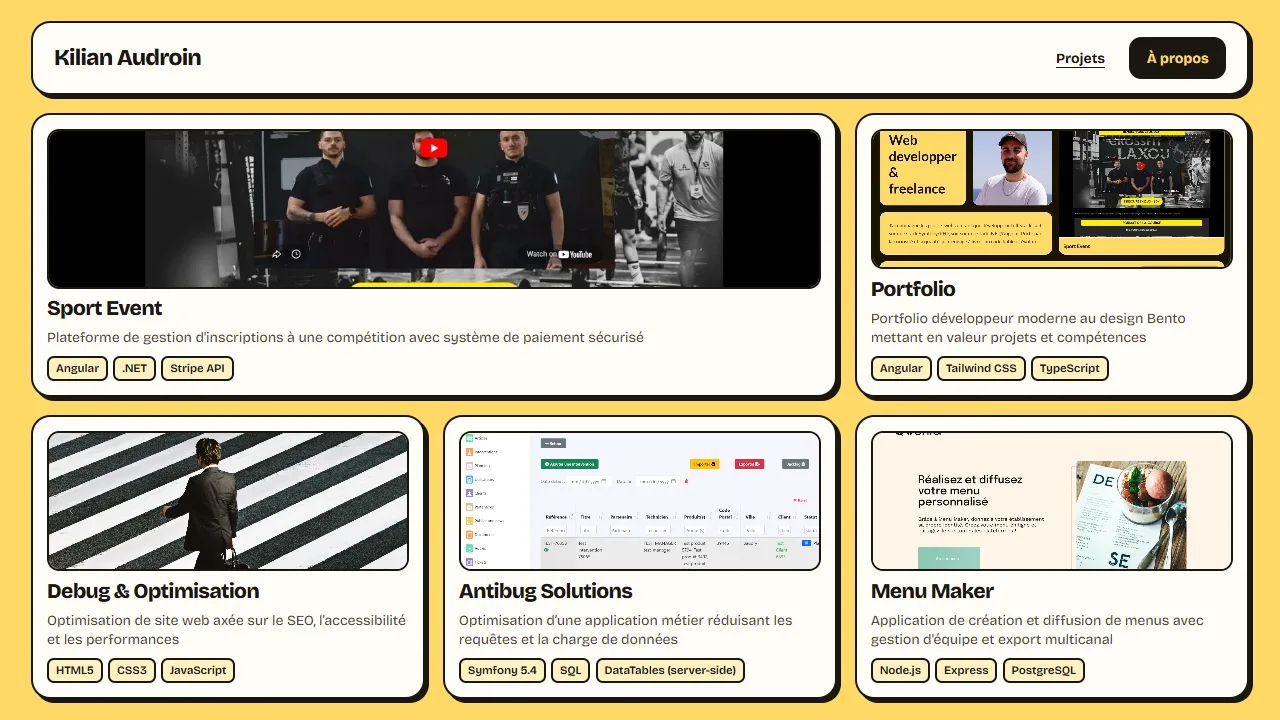
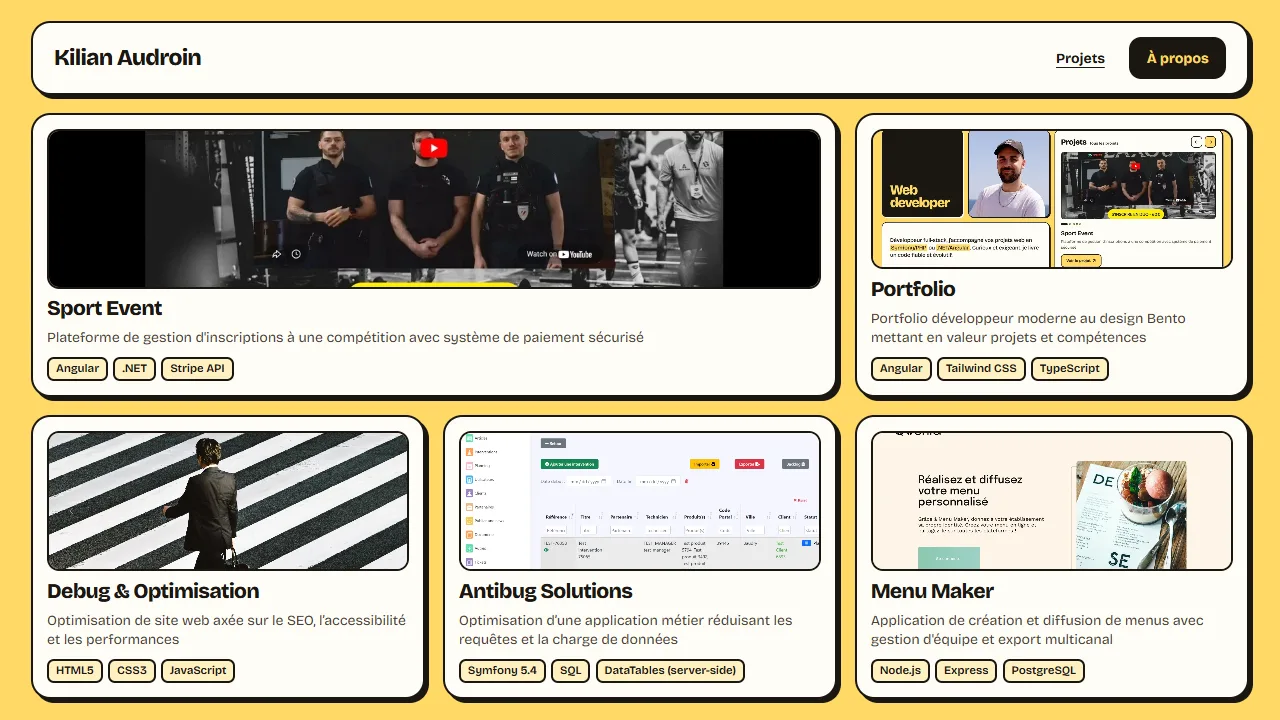
fix: projects grid handles extra cards and short screens; navbar and accessibility polish

diff --git a/portfolio/src/app/pages/projects/project-list/project-list.spec.ts b/portfolio/src/app/pages/projects/project-list/project-list.spec.ts
@@ -74,4 +74,36 @@ describe('ProjectList', () => {
     const fixture = setup(throwError(() => new Error('network')));
     expect(fixture.nativeElement.textContent).toContain('Impossible de charger les projets');
   });
+
+  it('marks only the first card as featured', () => {
+    const fixture = setup();
+    const cards = fixture.nativeElement.querySelectorAll('a.project-card');
+    expect(cards[0].classList).toContain('project-card-featured');
+    expect(cards[1].classList).not.toContain('project-card-featured');
+  });
+
+  it('uses the fit layout only up to five projects', () => {
+    const make = (n: number): Project[] =>
+      Array.from({ length: n }, (_, i) => ({
+        id: `${i}`,
+        slug: `p${i}`,
+        title: `P${i}`,
+        description: 'd',
+        images: ['images/x.webp'],
+      }));
+    const five = setup(of(make(5)));
+    expect(five.nativeElement.querySelector('.project-list-root').classList).toContain(
+      'project-list-fit',
+    );
+    TestBed.resetTestingModule();
+    const six = setup(of(make(6)));
+    expect(six.nativeElement.querySelector('.project-list-root').classList).not.toContain(
+      'project-list-fit',
+    );
+  });
+
+  it('gives card images an empty alt', () => {
+    const fixture = setup();
+    expect(fixture.nativeElement.querySelector('a.project-card img').getAttribute('alt')).toBe('');
+  });
 });

diff --git a/portfolio/src/app/pages/projects/project-list/project-list.scss b/portfolio/src/app/pages/projects/project-list/project-list.scss
@@ -39,6 +39,10 @@
   transition: transform 150ms ease;
 }
 
+.project-card:focus-visible {
+  outline-offset: 6px;
+}
+
 .project-card:hover {
   transform: translate(-2px, -2px);
 }
@@ -101,24 +105,41 @@
   .project-card-featured .project-image {
     aspect-ratio: 16 / 9;
   }
+
+  .project-image {
+    flex: 1 0 auto;
+  }
 }
 
-/* Desktop with enough height: two rows fill the viewport, like the home grid */
+/* Desktop with enough height and at most five cards: two rows fill the viewport, like the home grid */
 @media (min-width: 1024px) and (min-height: 650px) {
-  .project-list-root {
+  .project-list-fit.project-list-root {
     height: 100vh;
   }
 
-  .project-grid {
+  .project-list-fit .project-grid {
     height: 100%;
     grid-template-rows: repeat(2, minmax(0, 1fr));
   }
 
-  .project-image,
-  .project-card-featured .project-image {
+  .project-list-fit .project-image,
+  .project-list-fit .project-card-featured .project-image {
     flex: 1;
     min-height: 0;
     aspect-ratio: auto;
+  }
+
+  .project-list-fit .project-description {
+    display: -webkit-box;
+    -webkit-box-orient: vertical;
+    -webkit-line-clamp: 2;
+    overflow: hidden;
+  }
+
+  /* One pill row: a wrapped pill is hidden whole */
+  .project-list-fit .project-tags {
+    max-height: 1.75rem;
+    overflow: hidden;
   }
 }
 

diff --git a/portfolio/src/app/components/bentos/bento-navbar/bento-navbar.html b/portfolio/src/app/components/bentos/bento-navbar/bento-navbar.html
@@ -1,13 +1,16 @@
 <nav class="bento-card w-full px-5 py-3 md:px-6 md:py-4">
-    <div class="flex flex-wrap items-center justify-between gap-4">
+    <div class="navbar-row flex flex-wrap items-center justify-between gap-4">
         <a routerLink="/" class="navbar-title">{{ title() }}</a>
-        <div class="flex items-center gap-2.5">
+        <div class="navbar-items flex items-center gap-2.5">
             @for (item of navItems(); track item.id) {
+            @if (item.current) {
+            <span class="navbar-button navbar-button-current" aria-current="page">{{ item.label }}</span>
+            } @else {
             <button type="button" (click)="item.action?.()" class="navbar-button"
-                [class.navbar-button-primary]="item.primary" [class.navbar-button-current]="item.current"
-                [attr.aria-current]="item.current ? 'page' : null">
+                [class.navbar-button-primary]="item.primary">
                 {{ item.label }}
             </button>
+            }
             }
         </div>
     </div>

diff --git a/portfolio/src/app/pages/projects/project-list/project-list.html b/portfolio/src/app/pages/projects/project-list/project-list.html
@@ -1,4 +1,4 @@
-<div class="project-list-root bg-page min-h-screen flex flex-col">
+<div class="project-list-root bg-page min-h-screen flex flex-col" [class.project-list-fit]="fitsViewport()">
     <div class="project-list-layout px-4 md:px-6 py-4 md:py-6">
         <app-bento-navbar title="Kilian Audroin" [navItems]="navItems"></app-bento-navbar>
 
@@ -13,7 +13,7 @@
                 <a [routerLink]="['/projects', card.slug]" class="project-card bento-card"
                     [class.project-card-featured]="first">
                     <div class="project-image bento-frame">
-                        <img [ngSrc]="card.image" fill [priority]="first" [alt]="card.title" class="object-cover" />
+                        <img [ngSrc]="card.image" fill [priority]="first" alt="" class="object-cover" />
                     </div>
                     <h2 class="project-title">{{ card.title }}</h2>
                     <p class="project-description">{{ card.description }}</p>

diff --git a/portfolio/src/app/pages/projects/project-list/project-list.ts b/portfolio/src/app/pages/projects/project-list/project-list.ts
@@ -1,4 +1,4 @@
-import { ChangeDetectionStrategy, Component, inject, signal } from '@angular/core';
+import { ChangeDetectionStrategy, Component, computed, inject, signal } from '@angular/core';
 import { NgOptimizedImage } from '@angular/common';
 import { Router, RouterLink } from '@angular/router';
 import { toSignal } from '@angular/core/rxjs-interop';
@@ -7,6 +7,7 @@ import { BentoNavbar, NavItem } from '../../../components/bentos/bento-navbar/be
 import { ProjectService } from '../../../services/projects/project';
 
 const MAX_TAGS = 3;
+const MAX_FIT_CARDS = 5;
 
 interface ProjectCard {
   slug: string;
@@ -64,4 +65,7 @@ export class ProjectList {
         }),
       ),
   );
+
+  /** Five cards fill two rows exactly; more fall back to the scrolling layout. */
+  readonly fitsViewport = computed(() => (this.projects()?.length ?? 0) <= MAX_FIT_CARDS);
 }

diff --git a/portfolio/src/app/components/bentos/bento-navbar/bento-navbar.spec.ts b/portfolio/src/app/components/bentos/bento-navbar/bento-navbar.spec.ts
@@ -54,8 +54,11 @@ describe('BentoNavbar', () => {
       { id: 2, label: 'À propos' },
     ]);
     fixture.detectChanges();
+    const current = fixture.nativeElement.querySelector('[aria-current="page"]');
+    expect(current.tagName).toBe('SPAN');
+    expect(current.classList).toContain('navbar-button-current');
     const buttons = fixture.nativeElement.querySelectorAll('button');
-    expect(buttons[0].getAttribute('aria-current')).toBe('page');
-    expect(buttons[1].getAttribute('aria-current')).toBeNull();
+    expect(buttons.length).toBe(1);
+    expect(buttons[0].getAttribute('aria-current')).toBeNull();
   });
 });

diff --git a/portfolio/src/app/components/bentos/bento-navbar/bento-navbar.scss b/portfolio/src/app/components/bentos/bento-navbar/bento-navbar.scss
@@ -19,7 +19,12 @@
   color: var(--color-ink-hover);
 }
 
+.navbar-button-current:hover {
+  color: var(--color-ink);
+}
+
 .navbar-button-current {
+  cursor: default;
   font-weight: 700;
   text-decoration: underline;
   text-underline-offset: 0.25em;
@@ -34,6 +39,18 @@
 }
 
 @media (max-width: 599px) {
+  .navbar-row {
+    gap: 0.5rem;
+  }
+
+  .navbar-items {
+    gap: 0.25rem;
+  }
+
+  .navbar-button-current {
+    padding-inline: 0;
+  }
+
   .navbar-title {
     font-size: 1.25rem;
   }

diff --git a/portfolio/src/app/pages/landing/landing.ts b/portfolio/src/app/pages/landing/landing.ts
@@ -66,7 +66,7 @@ export class Landing {
     { id: 1, label: 'Projets', action: () => this.router.navigate(['/projects']) },
     this.aboutItem,
   ];
-  /** The feed has no carousel to scroll to. */
+  /** The feed already shows every project. */
   readonly feedNavItems: NavItem[] = [this.aboutItem];
 
   private readonly mobileQuery = window.matchMedia(MOBILE_QUERY);
